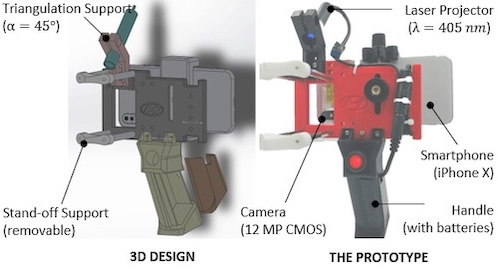
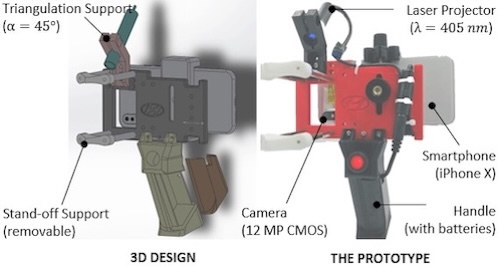
Adjust layout of figures in gap_hcm_2018.md for improved visual balance

diff --git a/_projects/gap_hcm_2018.md b/_projects/gap_hcm_2018.md
@@ -13,7 +13,7 @@ related_publications: true
 Accurate measurement of **Gap** (horizontal distance) and **Flush** (vertical displacement) between vehicle body panels is a critical quality control metric in automotive manufacturing. Traditional inspection relies either on expensive, rigid inline robotic arms or high-error manual tools (e.g., taper and dial gauges).
 
 <div class="row justify-content-sm-center">
-    <div class="col-sm-5 mt-3 mt-md-0">
+    <div class="col-sm-6 mt-3 mt-md-0">
         {% include figure.liquid loading="eager" path="assets/img/projects/gap_hcm_2018/gap_flush.gif" title="Gap and Flush Definition" class="img-fluid rounded z-depth-1" %}
     </div>
     <div class="col-sm-3 mt-3 mt-md-0">
